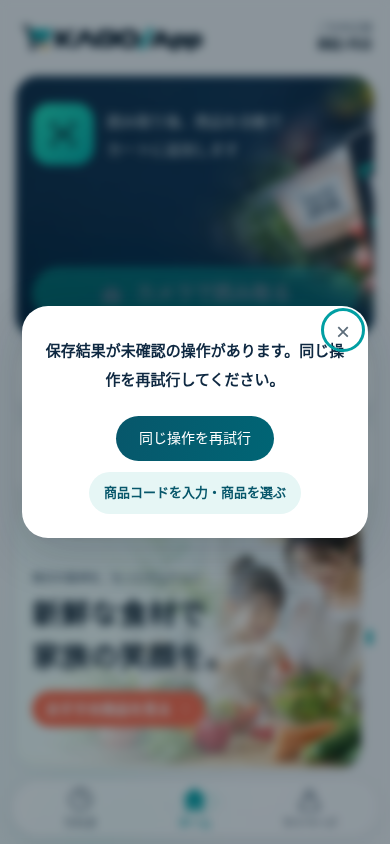
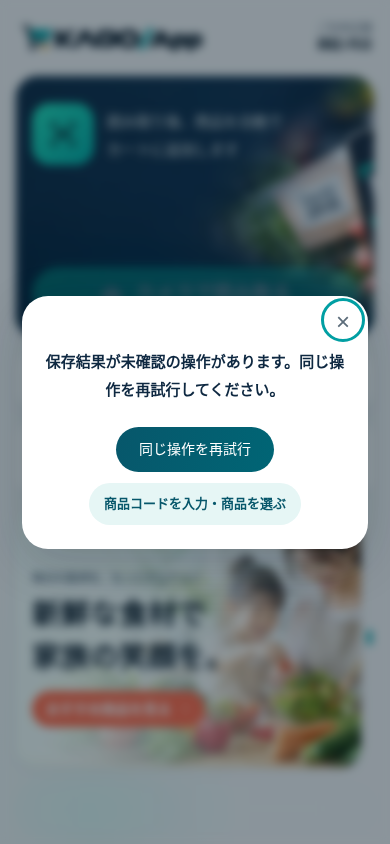
fix: 保存復旧通知の閉じるボタンと文の重なりを防ぐ #233

Changed region(s): [[0.0615, 0.4005, 0.9538, 0.6777], [0.0615, 0.3389, 0.9538, 0.4621], [0.4615, 0.9242, 0.5538, 0.9858]]

diff --git a/kago-os/kago-app/src/app/App/shopping-home.css b/kago-os/kago-app/src/app/App/shopping-home.css
@@ -259,7 +259,7 @@ body:has(.shopping-home) .shopping-session-bar{display:none}
 .shopping-header .shopping-logo{width:220px;max-width:100%;height:auto}
 .shopping-error-toast{position:fixed;inset:0;z-index:75;left:0;bottom:0;width:100%;transform:none;display:flex;align-items:center;justify-content:center;padding:22px;background:#07192770;backdrop-filter:blur(5px);box-shadow:none}
 .shopping-error-backdrop{position:absolute;inset:0;width:100%;height:100%}
-.shopping-error-card{position:relative;width:100%;max-width:390px;border-radius:26px;background:#fff;padding:31px 23px 24px;box-shadow:0 14px 50px #07192730;text-align:center}
+.shopping-error-card{position:relative;width:100%;max-width:390px;border-radius:26px;background:#fff;padding:52px 23px 24px;box-shadow:0 14px 50px #07192730;text-align:center}
 .shopping-error-card .shopping-feedback{padding:0;border:0;background:transparent;color:var(--kago-text)}
 .shopping-error-card .shopping-feedback>p{font-size:15px;font-weight:650;line-height:1.9;color:var(--kago-navy)}
 .shopping-error-card .shopping-feedback>button{display:block;min-height:45px;margin:22px auto 0;padding:10px 23px;border-radius:25px;background:linear-gradient(105deg,#07576B,#006575);font-size:14px;color:#fff}
